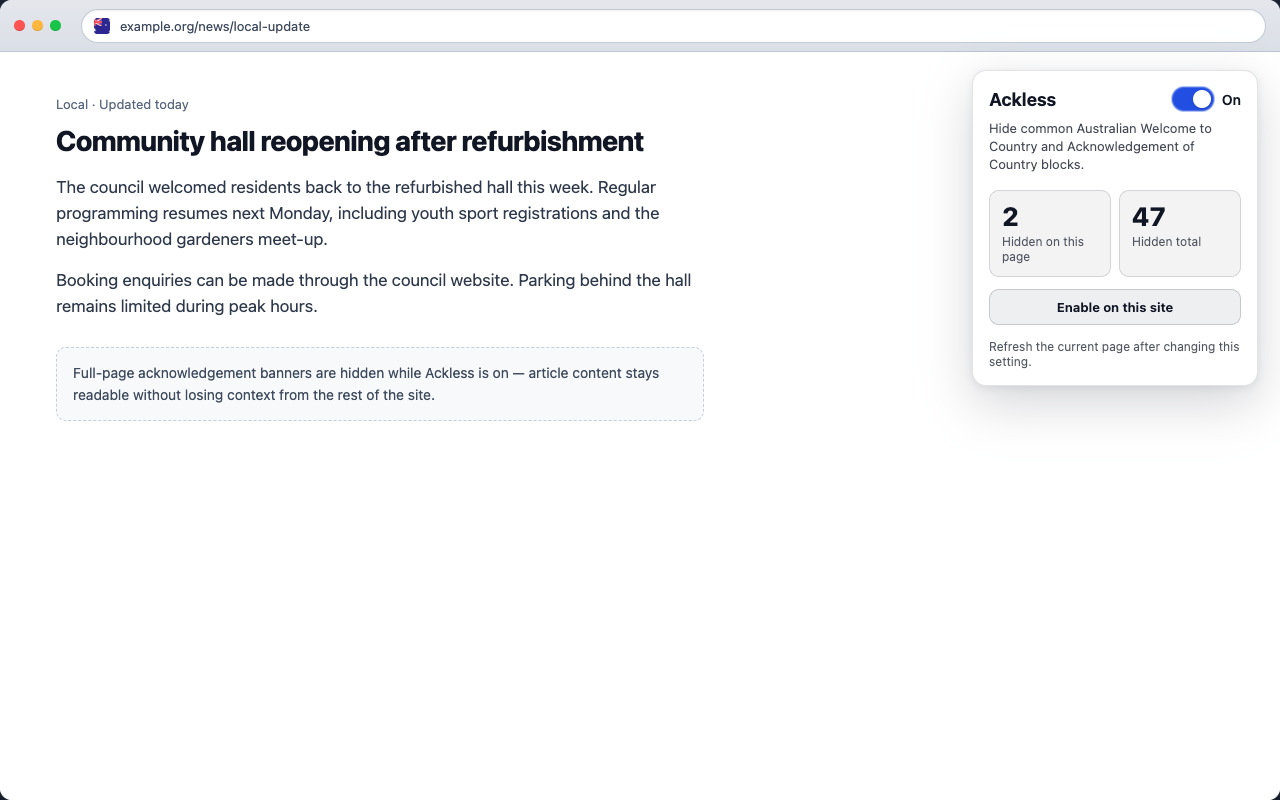
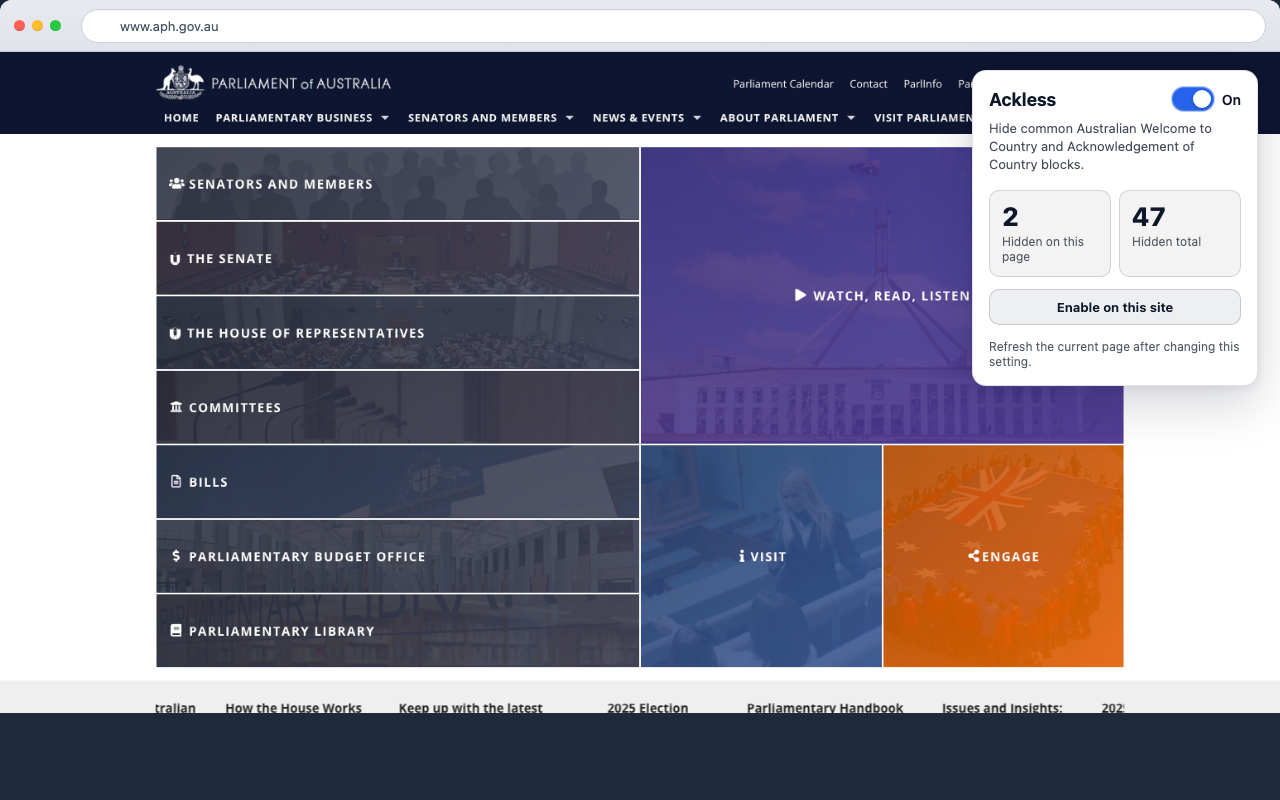
Update store promo with aph.gov.au screenshots and export tooling

diff --git a/screenshots/store-promo.html b/screenshots/store-promo.html
@@ -1,7 +1,12 @@
 <!doctype html>
 <!--
   Static composition for marketing screenshots (Chrome Web Store, readme).
-  Open at 100% zoom; capture #store-shot at 1280×800.
+  Page: https://www.aph.gov.au/ — captures aph-gov-au-*.png in this folder.
+  Open at 100% zoom; capture each block at 1280×800.
+  For headless export: http://…/store-promo.html?shot=main (Ackless popup)
+  or ?shot=acknowledgement (welcome modal only). Use --window-size=1280,800.
+  - #store-shot-acknowledgement: full-page welcome modal (before Continue)
+  - #store-shot: same site after modal, with Ackless popup
 -->
 <html lang="en-AU">
   <head>
@@ -21,9 +26,11 @@
 
       body {
         display: flex;
-        align-items: flex-start;
-        justify-content: center;
-        padding: 24px;
+        flex-direction: column;
+        align-items: center;
+        justify-content: flex-start;
+        gap: 40px;
+        padding: 24px 24px 48px;
         font-family:
           system-ui,
           -apple-system,
@@ -32,7 +39,8 @@
           sans-serif;
       }
 
-      #store-shot {
+      #store-shot,
+      #store-shot-acknowledgement {
         width: 1280px;
         height: 800px;
         overflow: hidden;
@@ -110,44 +118,17 @@
         flex: 1;
         position: relative;
         display: flex;
-        background: #fff;
+        background: #0f172a;
       }
 
-      .article {
-        flex: 1;
-        padding: 44px 56px 48px;
-        max-width: 760px;
-      }
-
-      .article-meta {
-        font-size: 13px;
-        color: #64748b;
-        margin-bottom: 12px;
-      }
-
-      .article h1 {
-        margin: 0 0 16px;
-        font-size: 28px;
-        font-weight: 750;
-        letter-spacing: -0.02em;
-        line-height: 1.2;
-      }
-
-      .article p {
-        margin: 0 0 14px;
-        font-size: 17px;
-        line-height: 1.55;
-        color: #334155;
-      }
-
-      .article .note {
-        margin-top: 28px;
-        padding: 14px 16px;
-        border-radius: 10px;
-        border: 1px dashed #cbd5e1;
-        background: #f8fafc;
-        font-size: 14px;
-        color: #475569;
+      .page-screenshot {
+        position: absolute;
+        inset: 0;
+        width: 100%;
+        height: 100%;
+        object-fit: cover;
+        object-position: top center;
+        display: block;
       }
 
       .popup-panel {
@@ -274,6 +255,33 @@
     </style>
   </head>
   <body>
+    <div id="store-shot-acknowledgement" aria-hidden="true">
+      <div class="chrome-top">
+        <div class="traffic" aria-hidden="true">
+          <span></span><span></span><span></span>
+        </div>
+        <div class="omnibox">
+          <img
+            class="omnibox-icon"
+            src="../icons/icon-48.png"
+            alt=""
+            width="16"
+            height="16"
+          />
+          <span>www.aph.gov.au</span>
+        </div>
+      </div>
+      <div class="page-wrap">
+        <img
+          class="page-screenshot"
+          src="aph-gov-au-with-dialog.png"
+          alt=""
+          width="1280"
+          height="748"
+        />
+      </div>
+    </div>
+
     <div id="store-shot" aria-hidden="true">
       <div class="chrome-top">
         <div class="traffic" aria-hidden="true">
@@ -287,28 +295,17 @@
             width="16"
             height="16"
           />
-          <span>example.org/news/local-update</span>
+          <span>www.aph.gov.au</span>
         </div>
       </div>
       <div class="page-wrap">
-        <article class="article">
-          <div class="article-meta">Local · Updated today</div>
-          <h1>Community hall reopening after refurbishment</h1>
-          <p>
-            The council welcomed residents back to the refurbished hall this
-            week. Regular programming resumes next Monday, including youth sport
-            registrations and the neighbourhood gardeners meet-up.
-          </p>
-          <p>
-            Booking enquiries can be made through the council website. Parking
-            behind the hall remains limited during peak hours.
-          </p>
-          <p class="note">
-            Full-page acknowledgement banners are hidden while Ackless is on —
-            article content stays readable without losing context from the rest
-            of the site.
-          </p>
-        </article>
+        <img
+          class="page-screenshot"
+          src="aph-gov-au-no-dialog.png"
+          alt=""
+          width="1280"
+          height="748"
+        />
 
         <aside class="popup-panel">
           <header class="popup-header">
@@ -341,5 +338,19 @@
         </aside>
       </div>
     </div>
+    <script>
+      (function () {
+        var shot = new URLSearchParams(location.search).get("shot");
+        if (shot === "main") {
+          document.getElementById("store-shot-acknowledgement")?.remove();
+          document.body.style.paddingTop = "0";
+          document.body.style.paddingBottom = "0";
+        } else if (shot === "acknowledgement") {
+          document.getElementById("store-shot")?.remove();
+          document.body.style.paddingTop = "0";
+          document.body.style.paddingBottom = "0";
+        }
+      })();
+    </script>
   </body>
 </html>
